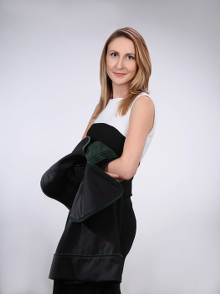
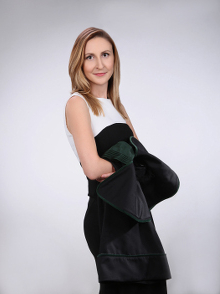
Swap two photos

diff --git a/index.html b/index.html
@@ -522,8 +522,7 @@
 
                                     <div class="grid_12">
                                         <div class="clearfix title-center"><h2 class="col-title" >O adwokat Monice Walińskiej</h2></div>
-                                        <p class="taj">
-                                        <img class="alignleft size-full" src="images/monika_about.jpeg" alt="Monika Walińska adwokat" />
+                                        <img class="alignleft size-full" src="images/monika_toga.jpg" alt="Monika Walińska adwokat" />
                                         <p class="align-justify">Adwokat Monika Walińska ukończyła w 2009 roku Wydział Prawa i Administracji, kierunek prawo stacjonarne na Uniwersytecie Łódzkim, ale jej fascynacja prawem zaczęła się o wiele wcześniej, bo już w szkole podstawowej, gdy zaczytywała się w powieściach J. Grishama. Na studiach prawniczych czynnie uczestniczyła w życiu akademickim biorąc udział m.in. w symulacjach procesów karnych. Przez rok udzielała porad prawnych w Klinice Prawa na Uniwersytecie Łódzkim. W 2008 roku została stypendystką programu Socrates/Erasmus, dzięki któremu miała okazję studiować prawo w Finlandii (University of Lapland). W ramach stypendium pogłębiała swoja wiedzę z prawa międzynarodowego publicznego i prywatnego, kryminalistyki oraz prawa europejskiego. W 2009 roku obroniła pracę magisterską na ocenę bardzo dobrą pod kierunkiem profesora dr hab. Krzysztofa Indeckiego w katedrze prawa karnego międzynarodowego. Następnie została przyjęta na czołowy wydział prawa w Anglii (University of Nottingham). Studia ukończyła z wynikiem bardzo dobrym zdobywając tytuł magistra prawa (L.LM). W 2011 roku ukończyła podyplomowe studia z prawa gospodarczego i podatkowego prowadzone na Wydziale Prawa i Administracji Uniwersytetu Łódzkiego. Monika Walińska ukończyła aplikację adwokacką przy Okręgowej Radzie Adwokacje w Łodzi zdobywając tytuł zawodowy adwokata.</p>
                                         <p class="align-justify">Obecnie adwokat Monika Walińska wykonuje praktykę zawodową w kancelarii adwokackiej przy ul. Radwańskiej 4 lok. 1 w Łodzi. Obszar jej specjalizacji obejmuje prawo rodzinne i opiekuńcze (m.in.: rozwody, separacje, roszczenia alimentacyjne, ustalenie kontaktów i władzy rodzicielskiej), cywilne (m.in. roszczenia o odszkodowanie i zadośćuczynienie, sprawy o zapłatę, lokalowe i o zasiedzenie) gospodarcze i karne. Dodatkowo od lutego 2014 roku współpracuje z fundacją Centrum Praw Kobiet Oddział Łodzi świadcząc pomoc prawną z zakresu prawa rodzinnego i karnego. Od października 2014 roku współrealizuje program Ministerstwa Sprawiedliwości pt.: „Pomoc osobom pokrzywdzonym przestępstwem oraz członkom ich rodzin”. W 2015 roku podjęła współpracę z Fundacją Pomocy Ofiarom Wypadków Drogowych Amber w Łodzi. Praktykę zawodową zdobyła w Kancelarii Adwokackiej Adwokata Michała Jadczyka w Łodzi oraz w Kancelarii Adwokackiej swojego Patrona, Adwokata Michała Wojtysiaka.</p>
                                         <p class="align-justify">Adwokat Monika Walińska biegle włada językiem angielskim (CAE, IELTS Advanced). Jest młodszym ratownikiem WOPR, sternikiem jachtowym i motorowodnym.</p>
@@ -654,7 +653,7 @@
                                                     </div> 
                                                     <div class="grid_4">
 
-                                                        <img class="alignright size-full" src="images/monika_toga.jpg" alt="Monika Walińska adwokat"/>
+                                                        <img class="alignright size-full" src="images/monika_full.jpeg" alt="Monika Walińska adwokat"/>
                                                     </div>
                                                 </div>
                                                 <div class="gap clearfix custom-h20" ></div>
